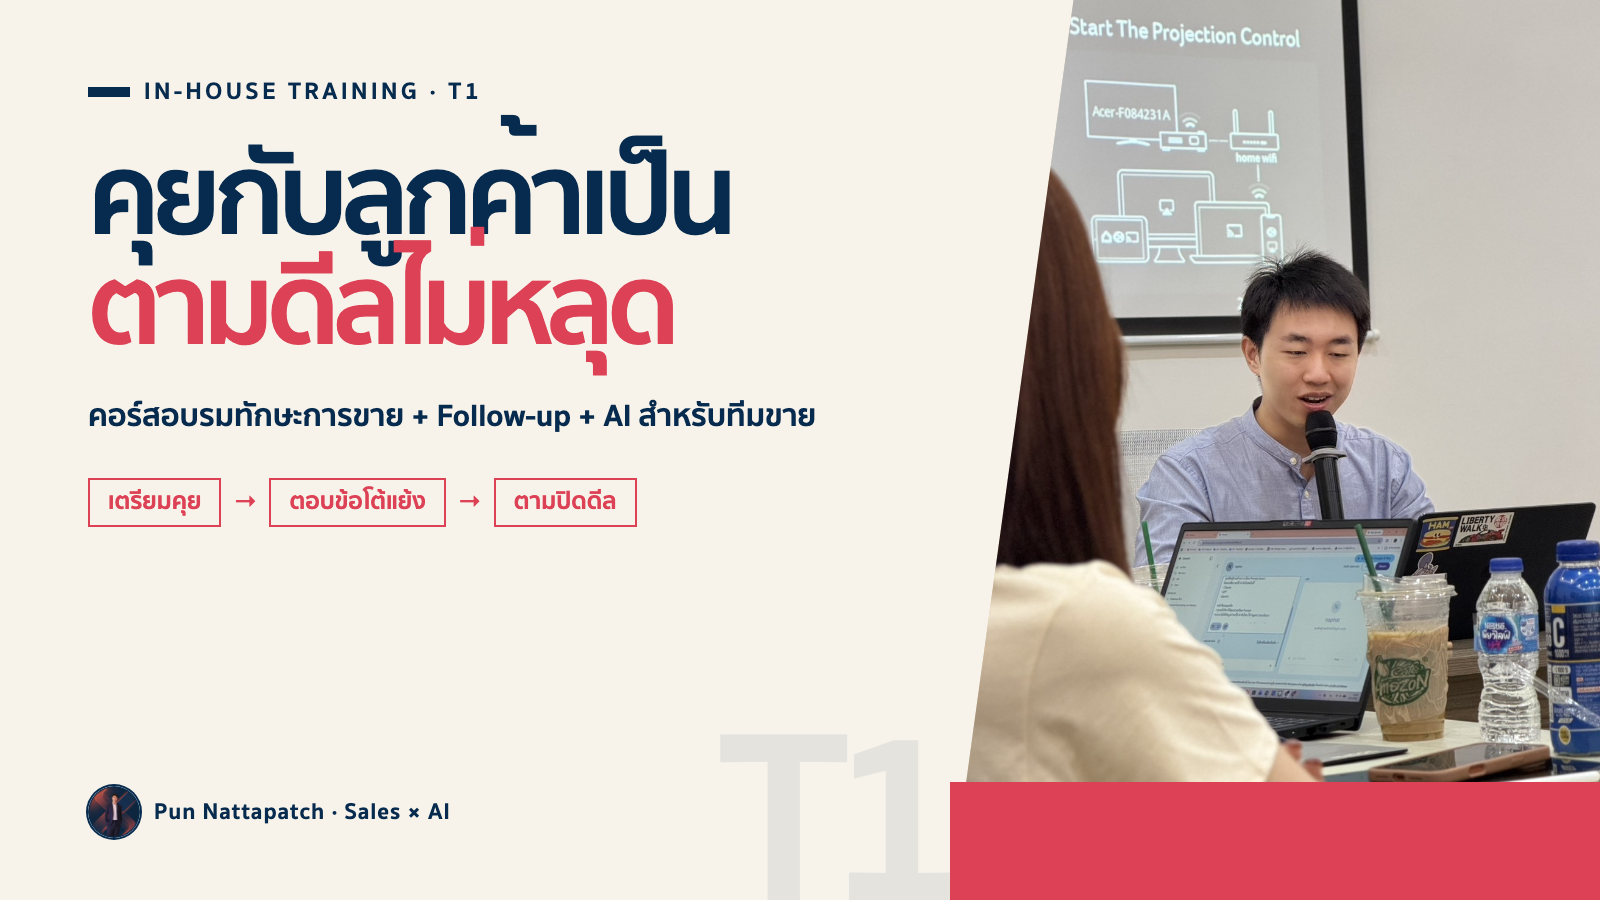
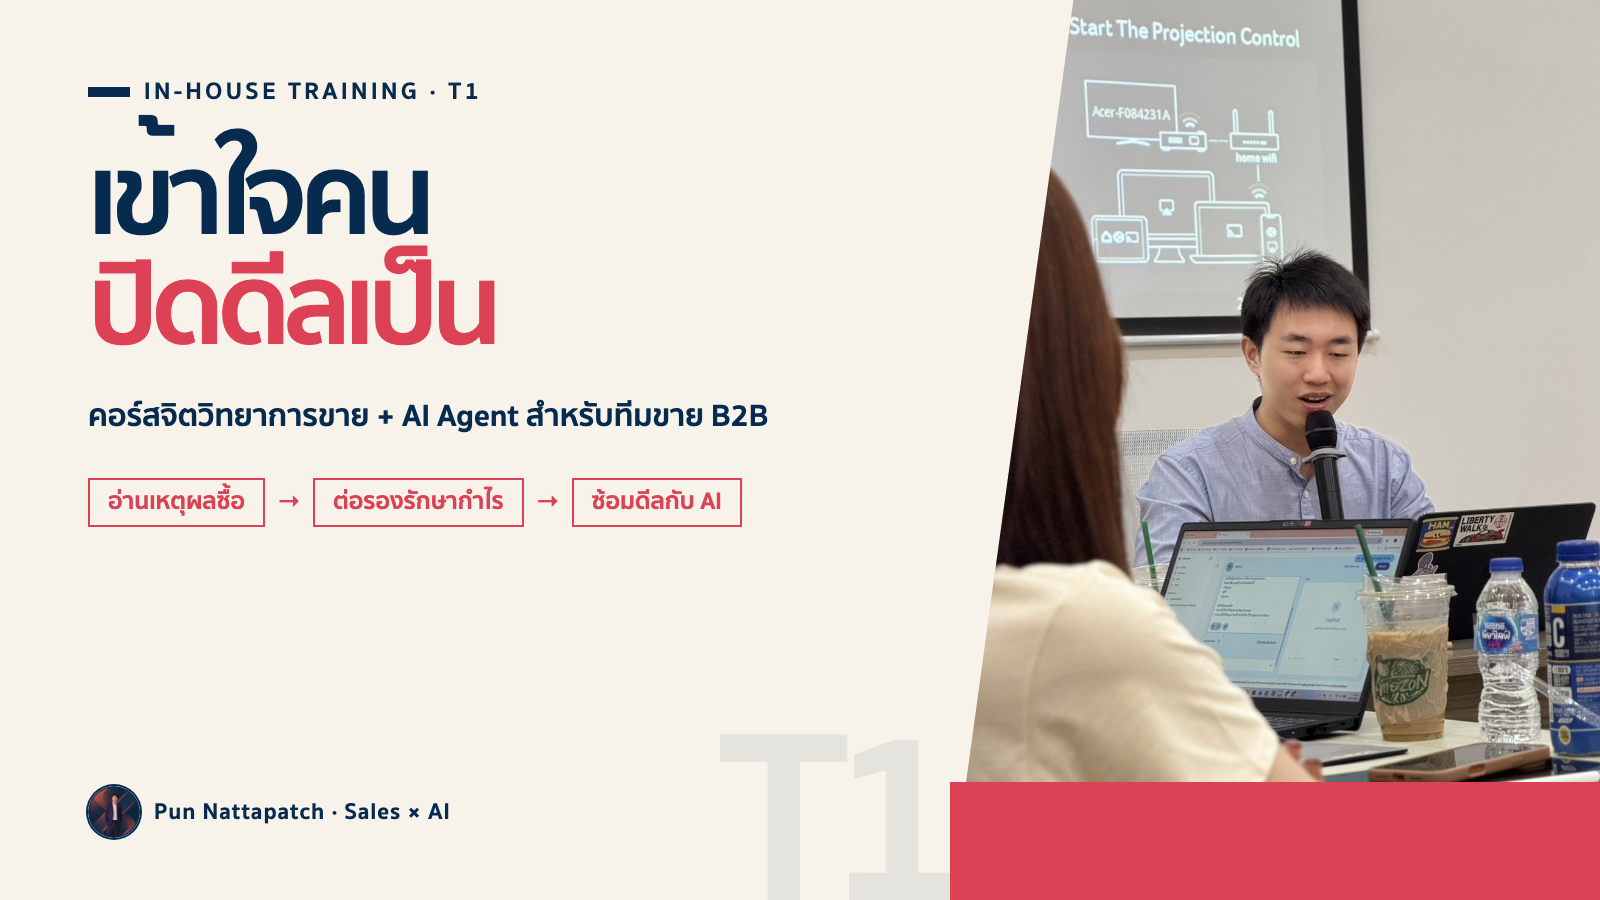
feat(t1): reposition course around sales psychology and AI coach

diff --git a/src/data/service-offers.ts b/src/data/service-offers.ts
@@ -31,15 +31,15 @@ export const SERVICE_OFFERS: readonly ServiceOffer[] = [
   {
     code: 'T1',
     kind: 'training',
-    publicName: 'คอร์สอบรมทักษะการขาย + Follow-up + AI สำหรับทีมขาย',
-    customerJob: 'คุยกับลูกค้าและตามดีลเป็น',
+    publicName: 'คอร์สจิตวิทยาการขาย + AI Agent สำหรับทีมขาย B2B',
+    customerJob: 'เข้าใจเหตุผลซื้อและต่อรองเป็น',
     formatLabel: 'Training · 1 day',
-    outcomeLabel: 'คุยชัด ตามต่อเนื่อง และไม่ปล่อยดีลหลุด',
-    description: 'ยกระดับบทสนทนาและวินัย Follow-up ของทีมขายให้ปิดงานได้เป็นระบบ โดยใช้ AI ช่วยลดงานซ้ำหลังบ้าน',
-    bullets: ['วางบทสนทนาที่พาลูกค้าไปสู่ขั้นต่อไป', 'ทำ Follow-up ที่ลูกค้าอยากตอบ', 'ใช้ AI ช่วยสรุปและเตรียมงานขาย'],
+    outcomeLabel: 'เข้าใจคน ปิดดีลเป็น และไม่รีบลดราคา',
+    description: 'ฝึกทีมอ่านเหตุผลซื้อ ถามและต่อรองบนคุณค่า แล้วสร้าง AI Sales Coach จากเคสจริงเพื่อช่วยเตรียม ซ้อม และทบทวนดีล',
+    bullets: ['แยกเหตุผลซื้อ Functional · Emotional · Social', 'ต่อรองและรับข้อโต้แย้งโดยรักษาคุณค่า', 'ซ้อมดีลกับ AI Agent จาก Company Context'],
     pricingKey: 'inhouse-a',
     thumbnailFile: 't1-sales-skill-ai.png',
-    imageAlt: 'คอร์สอบรมทักษะการขายและ Follow-up ด้วย AI สำหรับทีมขาย',
+    imageAlt: 'คอร์สจิตวิทยาการขายและ AI Agent สำหรับทีมขาย B2B',
     detailHref: '/services#inhouse-a',
     primaryCtaLabel: 'ดูรายละเอียดคอร์ส',
     primaryCtaKind: 'detail',

diff --git a/src/content/faq/sales-training-2-day-content.md b/src/content/faq/sales-training-2-day-content.md
@@ -78,6 +78,6 @@ tags: [faq, sales-training, curriculum, workshop]
 - เจ้าของธุรกิจควรเข้าร่วมด้วยอย่างน้อยใน Day 1 Module 1 และ Day 2 Module 8
 - ต้องส่งเคสของลูกค้ารายจริงที่ปิดการขายไม่ได้ 5-10 เคสมาให้ผมก่อนวัน training 1 สัปดาห์ เพื่อใช้เตรียมเนื้อหาสำหรับ Role-play
 
-หากต้องการหลักสูตรที่เปิดสอนอยู่ ดู [คอร์สอบรมทักษะการขาย + Follow-up + AI สำหรับทีมขาย {{price:inhouse-a}}](/services#offer-t1)
+หากต้องการหลักสูตรที่เปิดสอนอยู่ ดู [คอร์สจิตวิทยาการขาย + AI Agent สำหรับทีมขาย B2B {{price:inhouse-a}}](/services#offer-t1)
 
 อ่านต่อ: [Commission structure ทีม 10 คน](/faq) | [Workshop vs Consulting](/faq)
